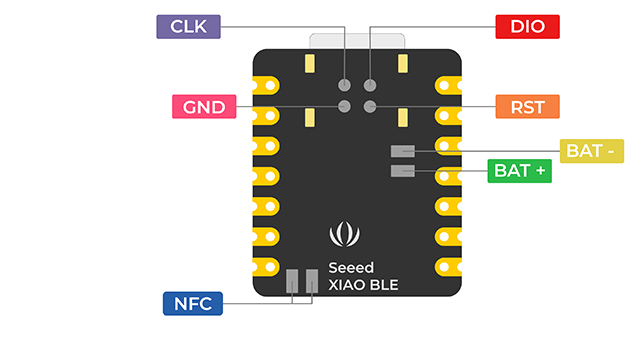
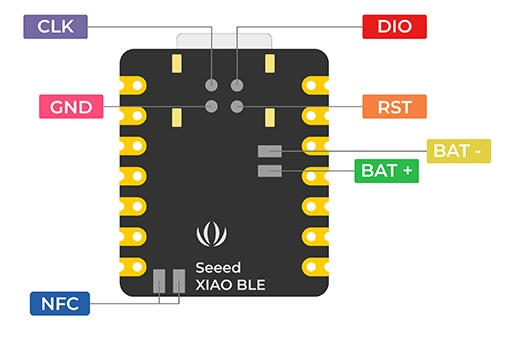
update images

diff --git a/README.md b/README.md
@@ -39,7 +39,7 @@ The goals are the following:
 
 ## How to Obtain the Physical PCB
 
-<img src="images/pcb.jpg" width="600">
+<img src="images/pcb2.jpg" width="600">
 
 The Gerber file is in this repository (`gerber/xiao_nrf52840_breakout.zip`). Simply upload this file a PCB manufacturer of your choice (JLPCB, PCBWay, ...), and you they will make it for you for as low as \$5 for 5 pieces (with the cheapest shipping option, which can take a few weeks).
 
